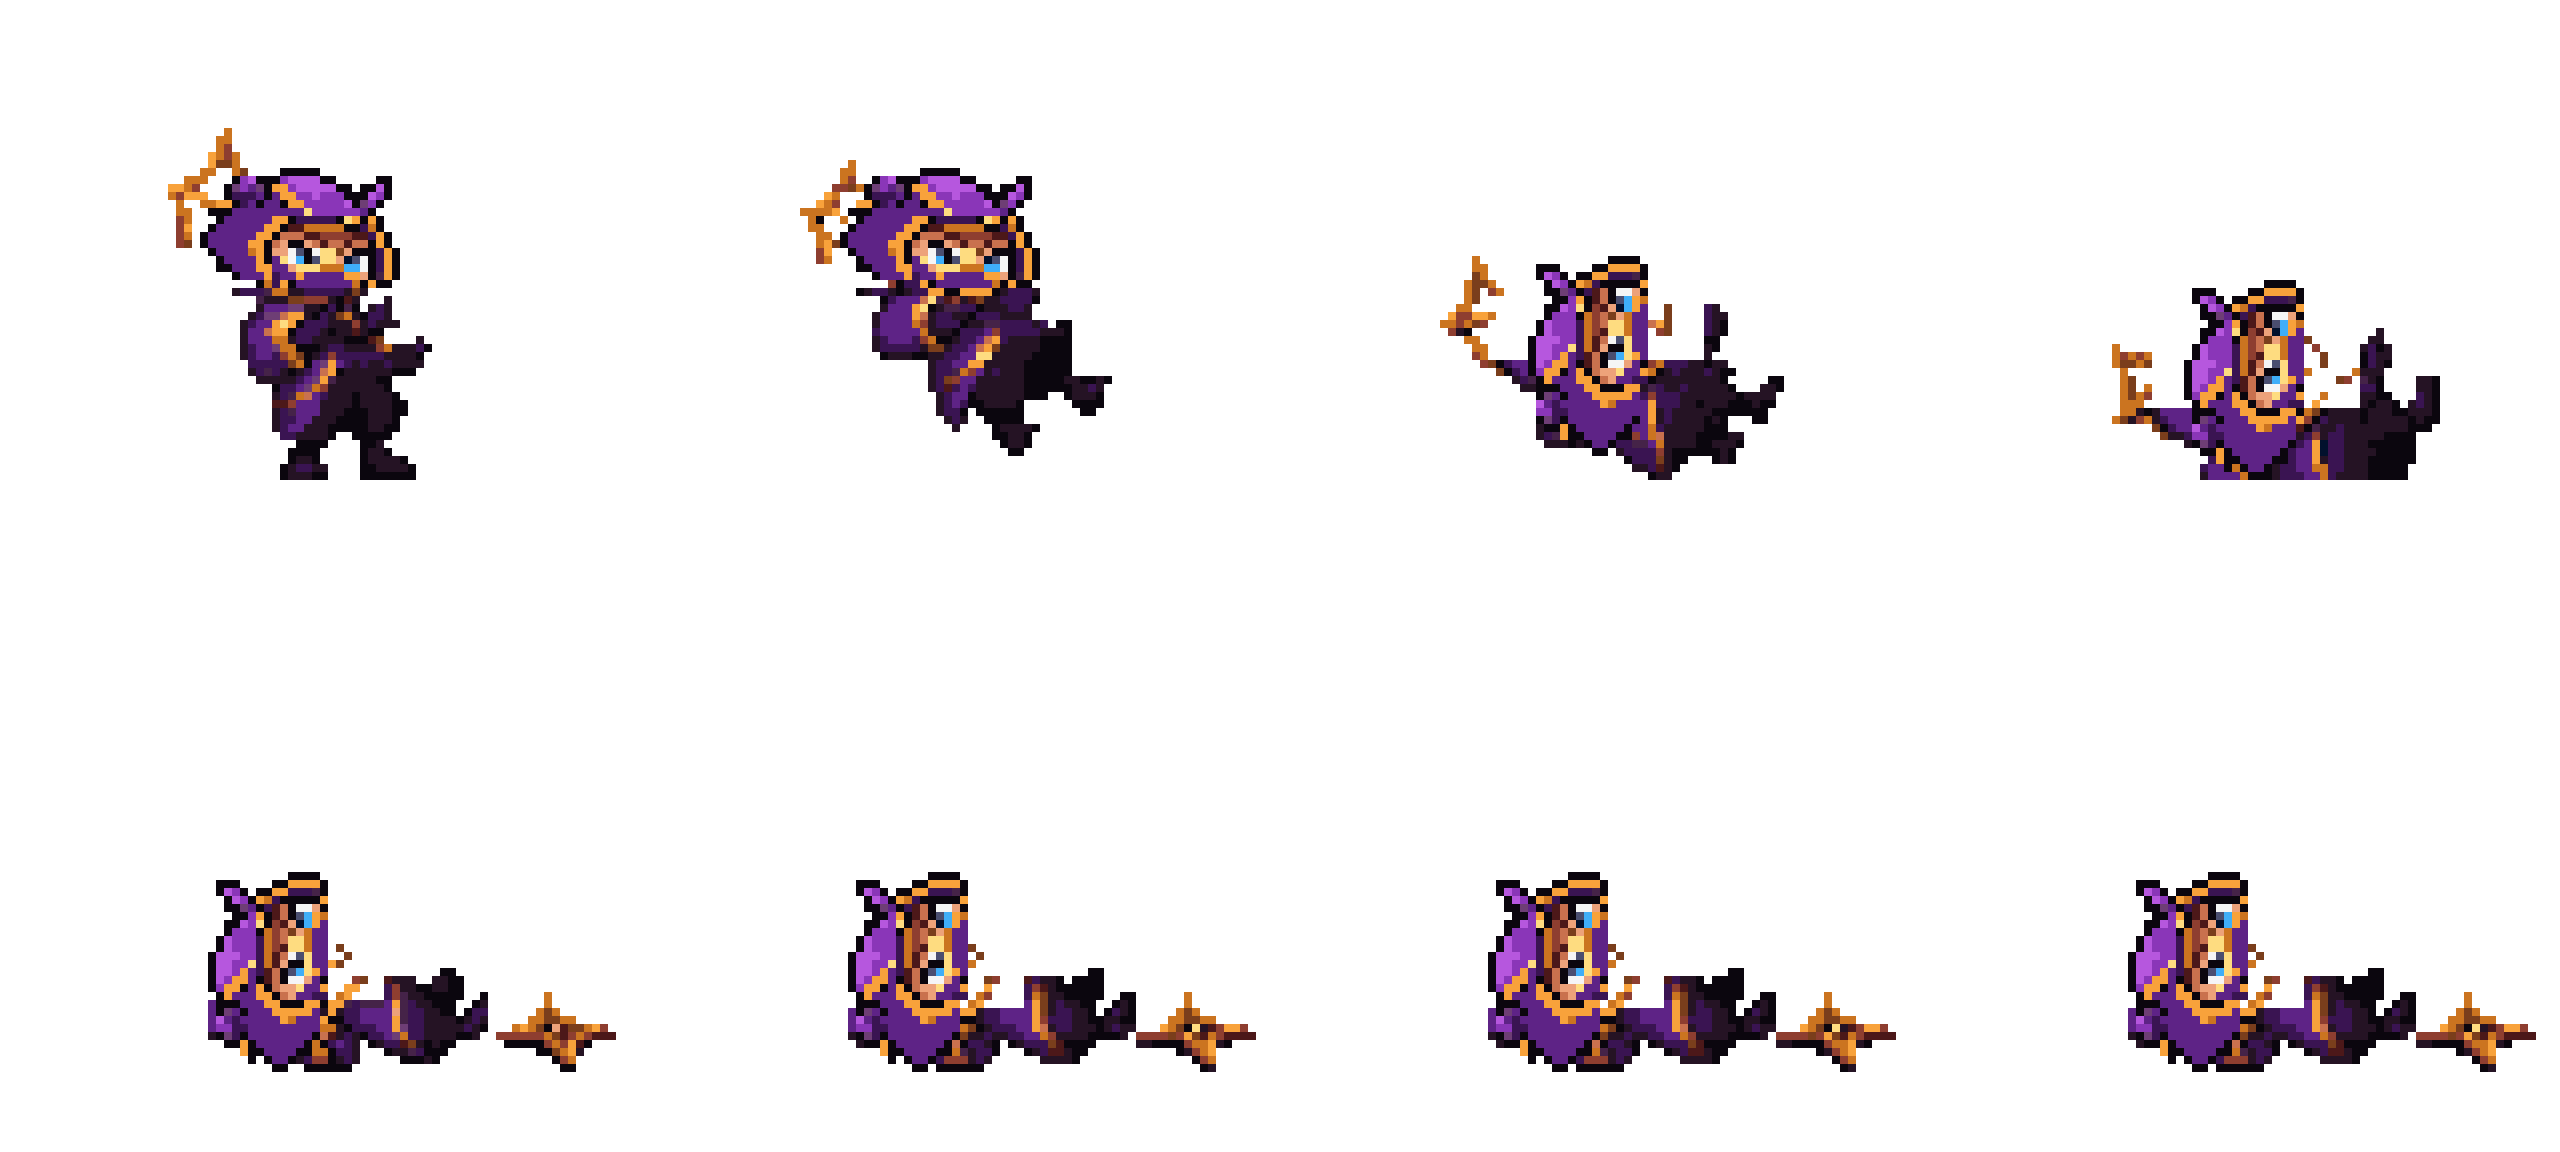
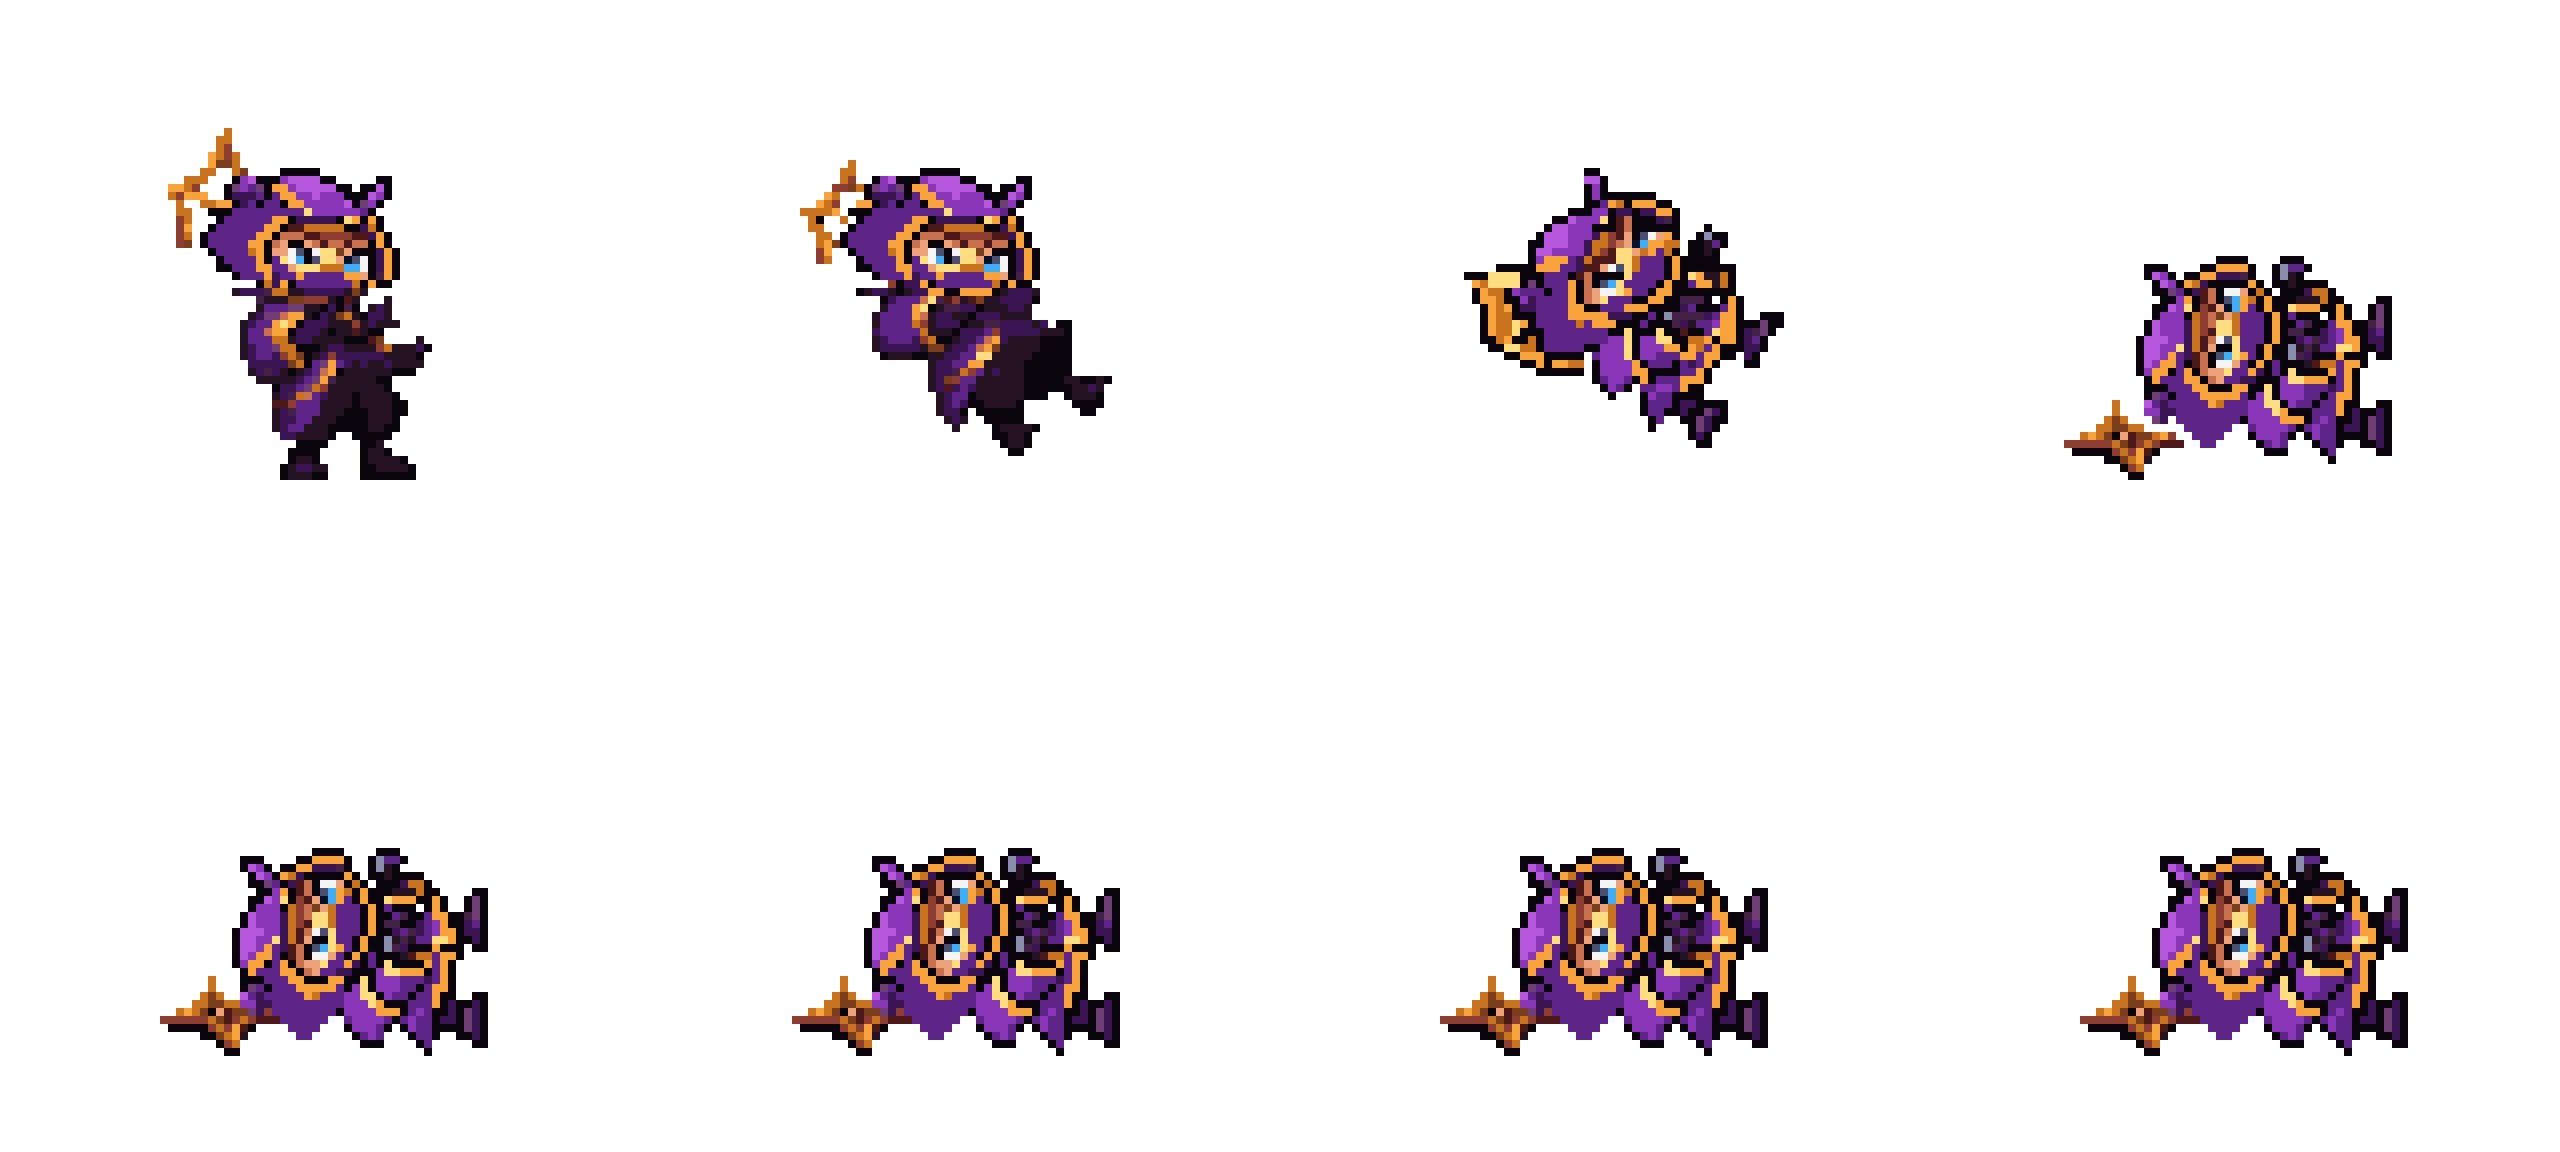
Kennen: the run steps across, the death turns the whole figure
The user: "凯南走路没有交叉步 死亡后模型缺失右半身".
- Run: the first rebuild only slid the two shoes apart and together, the near
  one always behind. Now two 2-square shins hang from hips under the robe to
  the design's own shoes; the near leg (drawn in front, its outline over the
  far one) steps ahead of the far one and then falls behind it, so the lead
  foot changes every half cycle; the swinging shoe is lifted 1-2 rows and the
  upper body rides a row up while a foot swings through.
- Death frames 3-8: Codex turned the pasted head a quarter but drew the body
  under it in the gloves' darkest plum (half a figure). The design's whole
  figure is turned instead, as Tristana's death: 60 degrees in frame 3 (in the
  air, the shuriken still on his back), on his back from frame 4; the
  shuriken slips off and Codex's lying star peeks out from under his head.

diff --git a/tools/art/fix_kennen_strips.py b/tools/art/fix_kennen_strips.py
@@ -8,8 +8,11 @@ design's head into every frame (assets/source/kennen/codex_strips/, as delivered
 Its checks passed (blocks, palette, alpha, feet line, the head square for square); what they did not see is fixed here:
 1. The run (8 frames) drew the robe in the gloves' dark plum and the legs as one dark lump that hardly moved (its own
    HANDOFF: "移动腿部交换的幅度偏小"): rebuilt from the design - the idle's whole upper body (the shuriken, the head,
-   the robe and the claws: one block, so nothing comes apart) on a step bob (lowest when both feet are down), the two
-   shoes (the design's own) stepping in turn, the swinging one lifted a row, the near one drawn in front.
+   the robe and the claws: one block, so nothing comes apart) up a row while a foot swings through, over two legs: a
+   2-square shin (lit edge left, the shoes' violets) from a hip under the robe to each of the design's own shoes. The
+   lead foot changes every half cycle (the user: "凯南走路没有交叉步" - the first rebuild only slid the shoes apart and
+   together, the near one always behind): the near shoe, drawn in front with its shin's outline over the far leg, steps
+   ahead of the far one and then falls behind it; the swinging shoe is lifted 1-2 rows.
 2. E's dash (4 frames) was smeared into one-square streaks: the same design block crouched 2-3 rows over a long stride
    (the shoes swapping); the ball of lightning round him is an effect (step 3).
 3. R's leap (frames 2-3) had stick legs under a dark column and the shuriken balanced on the hood: the design leaps
@@ -20,6 +23,11 @@ Its checks passed (blocks, palette, alpha, feet line, the head square for square
    the robe's violets inside the outline, only where the frame is clear: the arm goes behind the head).
 5. One-square strays: the brown tips over Q's shuriken (frames 1-2), the gold strand and the violet blob over the hood
    in W's crouch (frames 3-4), two gold squares beside the attack's frame 1.
+6. The death's frames 3-8 turned the pasted head a quarter but drew the body under it in the gloves' darkest plum, so
+   he seemed to lie there as half a figure (the user: "死亡后模型缺失右半身"): the design's whole figure is turned as one,
+   as Tristana's death - 60 degrees in frame 3 (falling back, in the air, the shuriken still on his back as in frames
+   1-2), 90 from frame 4 (on his back, face up; frame 4 two rows over the ground, then on it). The shuriken slips off
+   his back: Codex's star lying on the ground (its frames 5-8) peeks out from under his head. Frames 1-2 are Codex's.
 Writes assets/source/native/kennen_<tag>.png (8x) and kennen_cells.json (the pack's); then run
 tools/art/import_native.py --hero kennen. --check compares with the files instead of writing them.
 """
@@ -34,6 +42,8 @@ from PIL import Image
 
 HERE = os.path.dirname(os.path.abspath(__file__))
 ROOT = os.path.dirname(os.path.dirname(HERE))
+sys.path.insert(0, HERE)
+from rig_nocturne import rotsprite  # noqa: E402
 SRC = os.path.join(ROOT, "assets", "source", "kennen", "codex_strips")
 DESIGN = os.path.join(ROOT, "assets", "source", "native", "kennen_native.png")
 OUT = os.path.join(ROOT, "assets", "source", "native")
@@ -46,12 +56,16 @@ FAR_SHOE = (96, 99, 65, 73)
 C = {"#": (0x0B, 0x06, 0x0E), "b": (0x5E, 0x23, 0x86), "d": (0x8A, 0x36, 0xB8), "v": (0x3A, 0x14, 0x52),
      "p": (0x45, 0x23, 0x48), "P": (0x25, 0x13, 0x24), "q": (0x6E, 0x3E, 0x75), "Y": (0xFE, 0xDC, 0x80)}
 
-# the run: a two-step cycle (8 x 100 ms) - body rows down, shoe offsets (columns), shoe lifts (rows)
-RUN_DY = [1, 0, 0, 1, 1, 0, 0, 1]
-RUN_NEAR = [4, 2, -1, -3, -3, -1, 2, 4]
-RUN_FAR = [-3, -1, 2, 4, 4, 2, -1, -3]
-RUN_NEAR_LIFT = [0, 0, 0, 0, 0, 1, 1, 0]
-RUN_FAR_LIFT = [0, 1, 1, 0, 0, 0, 0, 0]
+# the run: a two-step cycle (8 x 100 ms) - body rows down (up a row while a foot swings through), the shoes' middles
+# in columns from the pivot (the near one ahead of the far one in frames 1-2 and 8, behind it in frames 4-6) and their
+# lifts in rows (the swinging one)
+RUN_DY = [0, -1, -1, 0, 0, -1, -1, 0]
+RUN_NEAR = [4, 3, -1, -5, -6, -5, -1, 3]
+RUN_FAR = [-4, -3, 1, 5, 6, 5, 1, -3]
+RUN_NEAR_LIFT = [0, 0, 0, 0, 0, 1, 2, 1]
+RUN_FAR_LIFT = [0, 1, 2, 1, 0, 0, 0, 0]
+HIPS = {"near": (60, 91), "far": (66, 91)}     # design squares under the robe the shins hang from
+LEG_STUB = [(94, 56), (94, 57), (95, 56), (95, 57), (95, 58), (95, 59)]   # the idle's near shin under the robe's back
 # E's dash (4 x 75 ms): crouched 2-3 rows, a long stride that swaps
 DASH_DY = [2, 3, 2, 3]
 DASH_NEAR = [-4, -1, 4, 1]
@@ -70,6 +84,15 @@ STRAYS = {("skill", 0): [(21, 38)],
           ("w", 3): [(32, 41), (32, 42), (32, 43), (33, 40), (34, 41), (34, 42), (35, 43), (35, 44), (36, 44),
                      (36, 45), (37, 45)],
           ("attack", 0): [(36, 35), (37, 35)]}
+# the death, frames 3-8 (0-based 2-7): the design's figure turned as one - (degrees counter-clockwise, rows over the
+# ground, the figure's middle in columns from the pivot, the shuriken still on his back)
+DEAD = {2: (60, 4, -4, True), 3: (90, 2, -5, False), 4: (90, 0, -5, False), 5: (90, 0, -5, False),
+        6: (90, 0, -5, False), 7: (90, 0, -5, False)}
+SOLES = 11                      # the soles' row under the pivot
+STAR_UNDER = 6                  # columns of the lying star under his head
+# the shuriken on the design's back: per row (63-81), its last column
+BACK_STAR = {63: 62, 64: 62, 65: 62, 66: 62, 67: 62, 68: 62, 69: 58, 70: 57, 71: 57, 72: 58, 73: 57, 74: 56, 75: 55,
+             76: 54, 77: 54, 78: 55, 79: 56, 80: 57, 81: 55}
 
 
 def lp(path):
@@ -126,6 +149,112 @@ def design_frame(des, pivot, dy, near=(0, 0), far=(0, 0), cw=80, ch=72):
     return f
 
 
+def shoe_of(des, leg):
+    """The design's own shoe with its top outline."""
+    if leg == "near":
+        return des[96:100, 54:61].copy()
+    s = des[96:100, 66:74].copy()
+    s[0, 0] = 0                 # the robe's hem outline, not the shoe's
+    return s
+
+
+def run_frame(des, pivot, k, cw=80, ch=72):
+    """The design's upper body RUN_DY[k] rows down over two legs: each a 2-square shin from its hip to the top of its
+    shoe at the step; the near leg (shoe, shin and the shin's outline) laid over the far one."""
+    f = np.zeros((ch, cw, 4), np.uint8)
+    ox, oy = pivot[0] - PIVOT[0], pivot[1] - PIVOT[1]
+    dy = RUN_DY[k]
+    lit, dark = des[97, 56, :3], des[98, 55, :3]
+    far = set()
+    for leg, mid, lift in (("far", RUN_FAR[k], RUN_FAR_LIFT[k]), ("near", RUN_NEAR[k], RUN_NEAR_LIFT[k])):
+        shoe = shoe_of(des, leg)
+        h, w = shoe.shape[:2]
+        top, left = 96 - lift + oy, PIVOT[0] + mid - w // 2 + ox
+        mine = set()
+        for yy, xx in zip(*np.nonzero(shoe[..., 3])):
+            f[top + yy, left + xx] = shoe[yy, xx]
+            mine.add((top + yy, left + xx))
+        hx, hy = HIPS[leg][0] + ox, HIPS[leg][1] + oy + dy
+        ax = left + (w - 1) / 2
+        band = set()
+        for y in range(hy, top + 1):
+            c = int(round(hx + (ax - hx) * (y - hy) / max(top - hy, 1)))
+            band |= {(y, c - 1), (y, c)}
+        for y, x in band:
+            f[y, x, :3], f[y, x, 3] = (lit if (y, x - 1) not in band else dark), 255
+        mine |= band
+        for y, x in {(y + a, x + b) for y, x in band for a in (-1, 0, 1) for b in (-1, 0, 1)} - mine:
+            if 0 <= y < ch and 0 <= x < cw and (not f[y, x, 3] or (y, x) in far):
+                f[y, x, :3], f[y, x, 3] = C["#"], 255
+        far = mine
+    up = des[UPPER[0]:UPPER[1] + 1].copy()
+    for y, x in LEG_STUB:
+        up[y - UPPER[0], x] = 0
+    paste(f, up, ox, UPPER[0] + oy + dy)
+    return f
+
+
+def pieces(m):
+    """8-connected pieces of a mask (lists of (y, x))."""
+    seen, out = set(), []
+    for y0, x0 in zip(*np.nonzero(m)):
+        if (y0, x0) in seen:
+            continue
+        st, piece = [(y0, x0)], []
+        seen.add((y0, x0))
+        while st:
+            y, x = st.pop()
+            piece.append((y, x))
+            for a in (-1, 0, 1):
+                for b in (-1, 0, 1):
+                    q = (y + a, x + b)
+                    if 0 <= q[0] < m.shape[0] and 0 <= q[1] < m.shape[1] and m[q] and q not in seen:
+                        seen.add(q)
+                        st.append(q)
+        out.append(piece)
+    return out
+
+
+def figure(des, star):
+    """The design's whole figure, with or without the shuriken on its back, cropped."""
+    fig = des[63:100].copy()
+    if not star:
+        for y, last in BACK_STAR.items():
+            fig[y - 63, :last + 1] = 0
+    ys, xs = np.nonzero(fig[..., 3])
+    return fig[ys.min():ys.max() + 1, xs.min():xs.max() + 1]
+
+
+def turned(fig, deg):
+    """The figure turned counter-clockwise (90 exact: the head goes left, the face looks up), cropped."""
+    t = np.rot90(fig, 1).copy() if deg == 90 else rotsprite(fig, (fig.shape[1] // 2, fig.shape[0] - 1), deg)[0]
+    ys, xs = np.nonzero(t[..., 3])
+    return t[ys.min():ys.max() + 1, xs.min():xs.max() + 1]
+
+
+def dead_frames(frs, piv, des, cw, ch):
+    """Frames 3-8 of the death: the turned figure on the ground under each frame's pivot; once he lies, Codex's lying
+    star (its frame 5's piece right of the body) under his head, its bottom on the ground."""
+    f5 = frs[4]
+    star_sq = [p for p in pieces(f5[..., 3] > 0) if min(x for _, x in p) >= 61]
+    ys = [y for p in star_sq for y, _ in p]
+    xs = [x for p in star_sq for _, x in p]
+    star = np.zeros((max(ys) - min(ys) + 1, max(xs) - min(xs) + 1, 4), np.uint8)
+    for p in star_sq:
+        for y, x in p:
+            star[y - min(ys), x - min(xs)] = f5[y, x]
+    for k, (deg, lift, mid, on_back) in DEAD.items():
+        f = np.zeros((ch, cw, 4), np.uint8)
+        t = turned(figure(des, on_back), deg)
+        px, py = piv[k]
+        left = px + mid - t.shape[1] // 2
+        if not on_back:
+            paste(f, star, left + STAR_UNDER - star.shape[1], py + SOLES - star.shape[0] + 1)
+        paste(f, t, left, py + SOLES - lift - t.shape[0] + 1)
+        frs[k] = f
+    return frs
+
+
 def arm(f, a, b):
     """A sleeve from a (shoulder) to b (hand), 2 squares wide, violet with a light edge, outlined, only on clear
     squares; then a 2x2 plum glove at b over everything."""
@@ -163,14 +292,15 @@ def build():
         frs = split(at1x(os.path.join(SRC, f"kennen_{tag}.png")), len(cells["tags"][tag]), cw, ch)
         piv = [fr["pivot"] for fr in cells["tags"][tag]]
         if tag == "run":
-            frs = [design_frame(des, piv[k], RUN_DY[k], (RUN_NEAR[k], RUN_NEAR_LIFT[k]), (RUN_FAR[k], RUN_FAR_LIFT[k]),
-                                cw, ch) for k in range(8)]
+            frs = [run_frame(des, piv[k], k, cw, ch) for k in range(8)]
         elif tag == "skill2":
             frs = [design_frame(des, piv[k], DASH_DY[k], (DASH_NEAR[k], DASH_NEAR_LIFT[k]),
                                 (DASH_FAR[k], DASH_FAR_LIFT[k]), cw, ch) for k in range(4)]
         elif tag == "ult":
             for k, up in LEAP.items():
                 frs[k] = design_frame(des, piv[k], -up, (0, up + 1), (0, up + 1), cw, ch)
+        elif tag == "dead":
+            frs = dead_frames(frs, piv, des, cw, ch)
         for k in range(len(frs)):
             if (tag, k) in COPY:
                 frs[k] = frs[COPY[(tag, k)]].copy()
